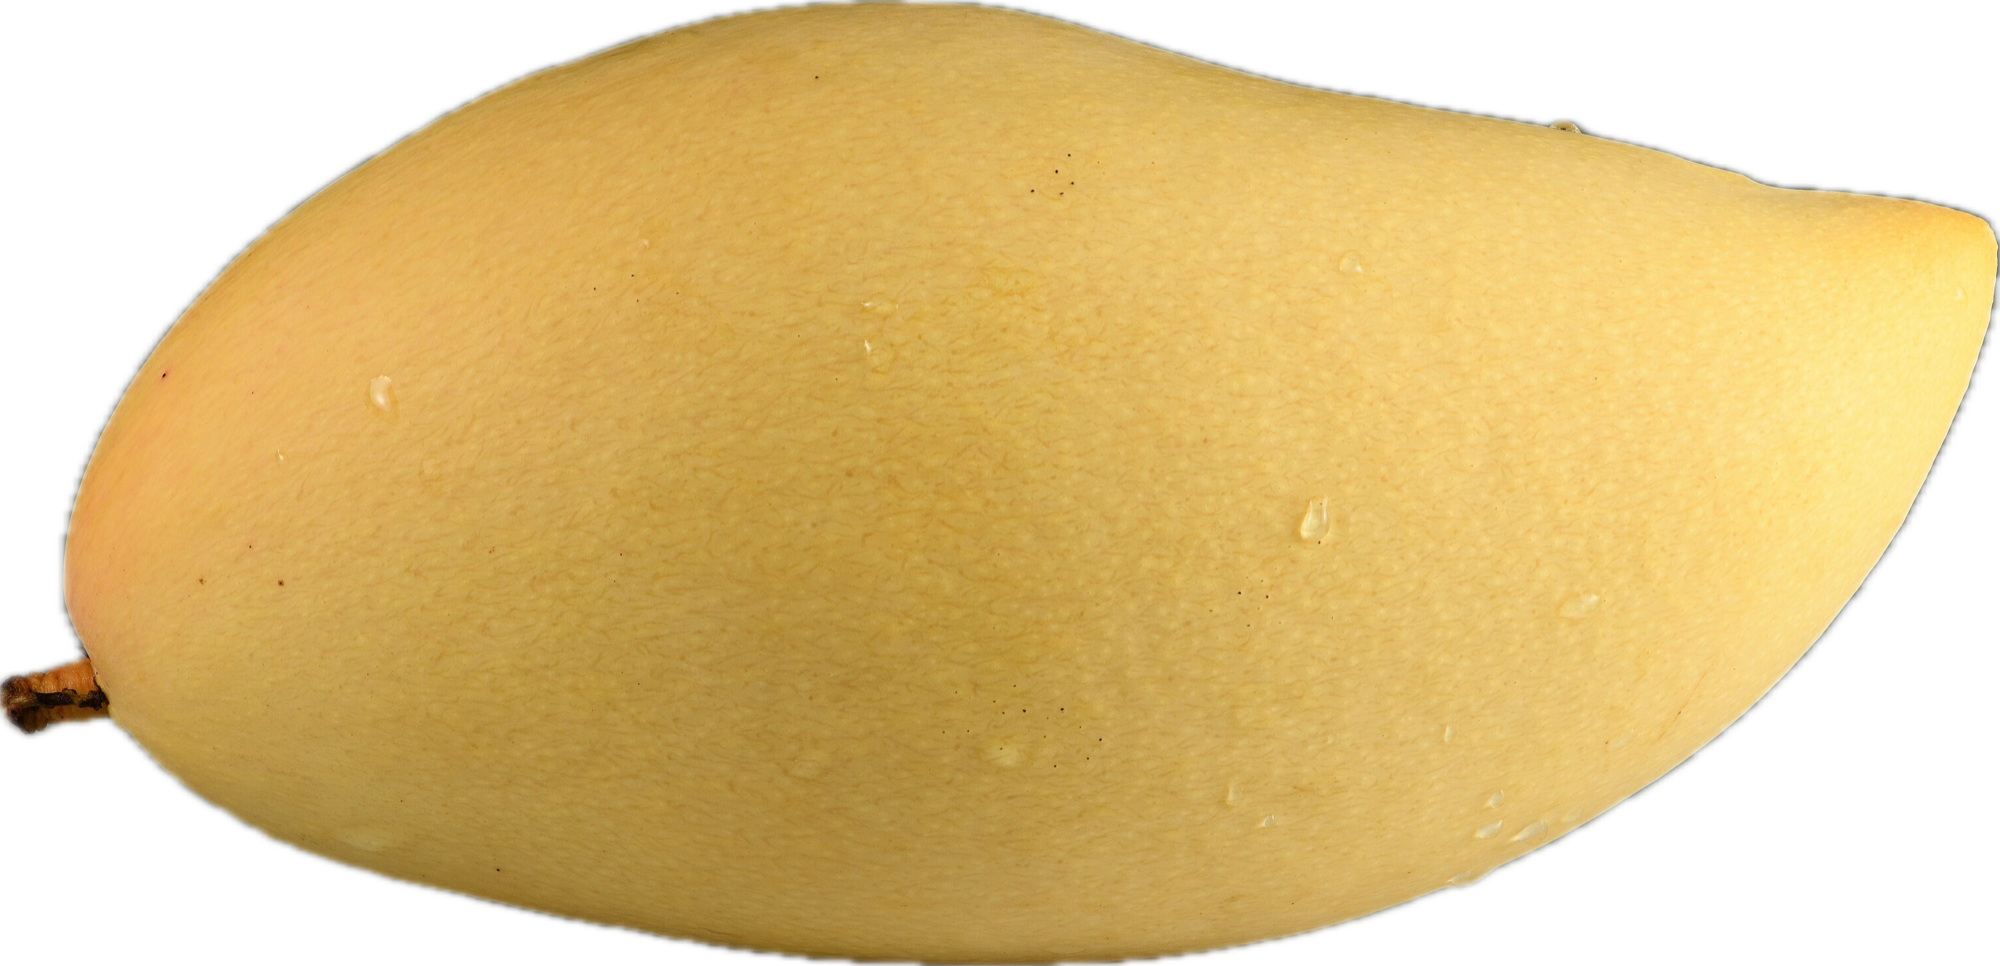
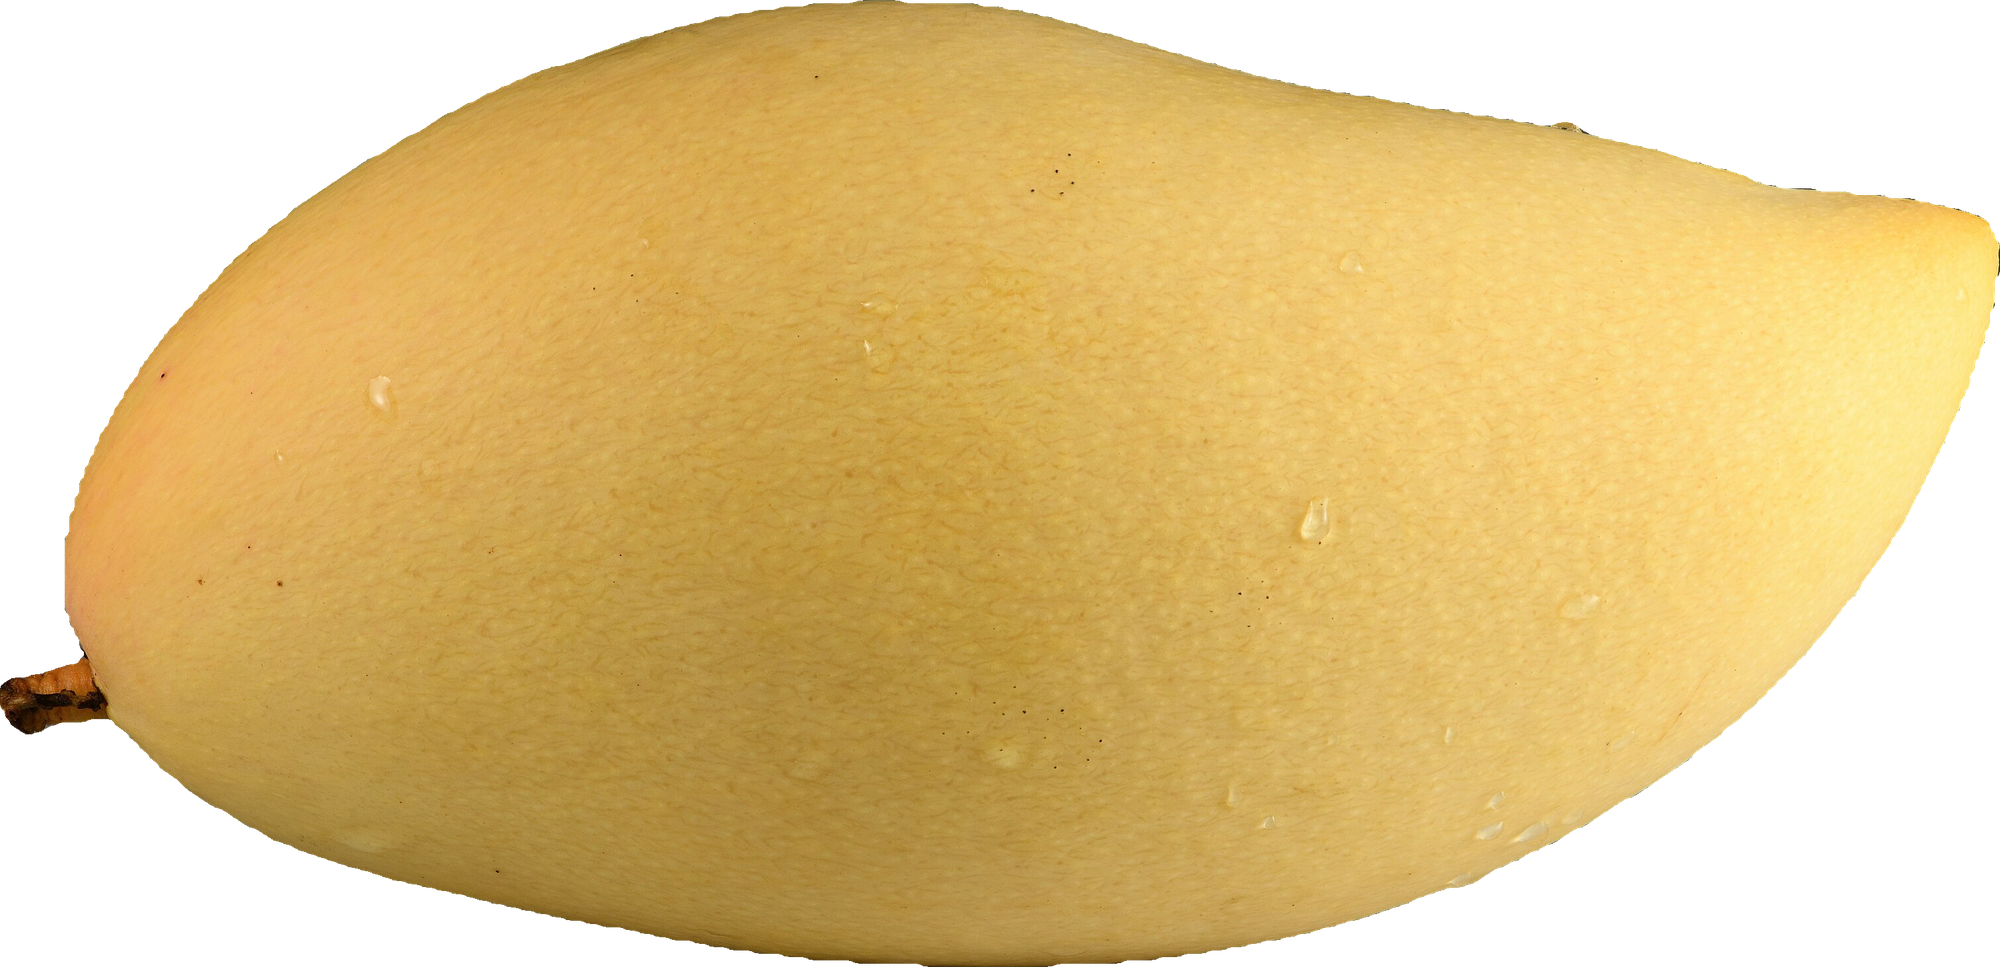
w1: mango-cutout sharp edge

diff --git a/app/experiments/w1/mango-cutout/README.md b/app/experiments/w1/mango-cutout/README.md
@@ -8,8 +8,8 @@ A high-res photo of a mango with its background removed, floating on a black ful
 - Parameters: none
 
 ## How it works
-- `public/experiments/w1/mango-cutout/mango.png` is a transparent PNG (2000×966), cut from "Mango fruit Nam Dok Mai" (a pale yellow Thai mango) on Wikimedia Commons.
-- The cutout was made once, offline, with macOS Vision's subject lifting (`VNGenerateForegroundInstanceMaskRequest`), the same thing as "Lift subject" in Photos. The page just shows the PNG.
+- `public/experiments/w1/mango-cutout/mango.png` is a transparent PNG (2000×967), cut from "Mango fruit Nam Dok Mai" (a pale yellow Thai mango) on Wikimedia Commons.
+- The cutout was made once, offline, with macOS Vision's subject lifting (`VNGenerateForegroundInstanceMaskRequest`), the same thing as "Lift subject" in Photos. Its soft alpha edge was then snapped to on/off (alpha ≥ 160 → opaque, else transparent) so the outline is sharp. The page just shows the PNG.
 - Fixed full-screen root, image centered with flexbox; `max-width/max-height: 100%` keeps it inside the window.
 
 ## Run
